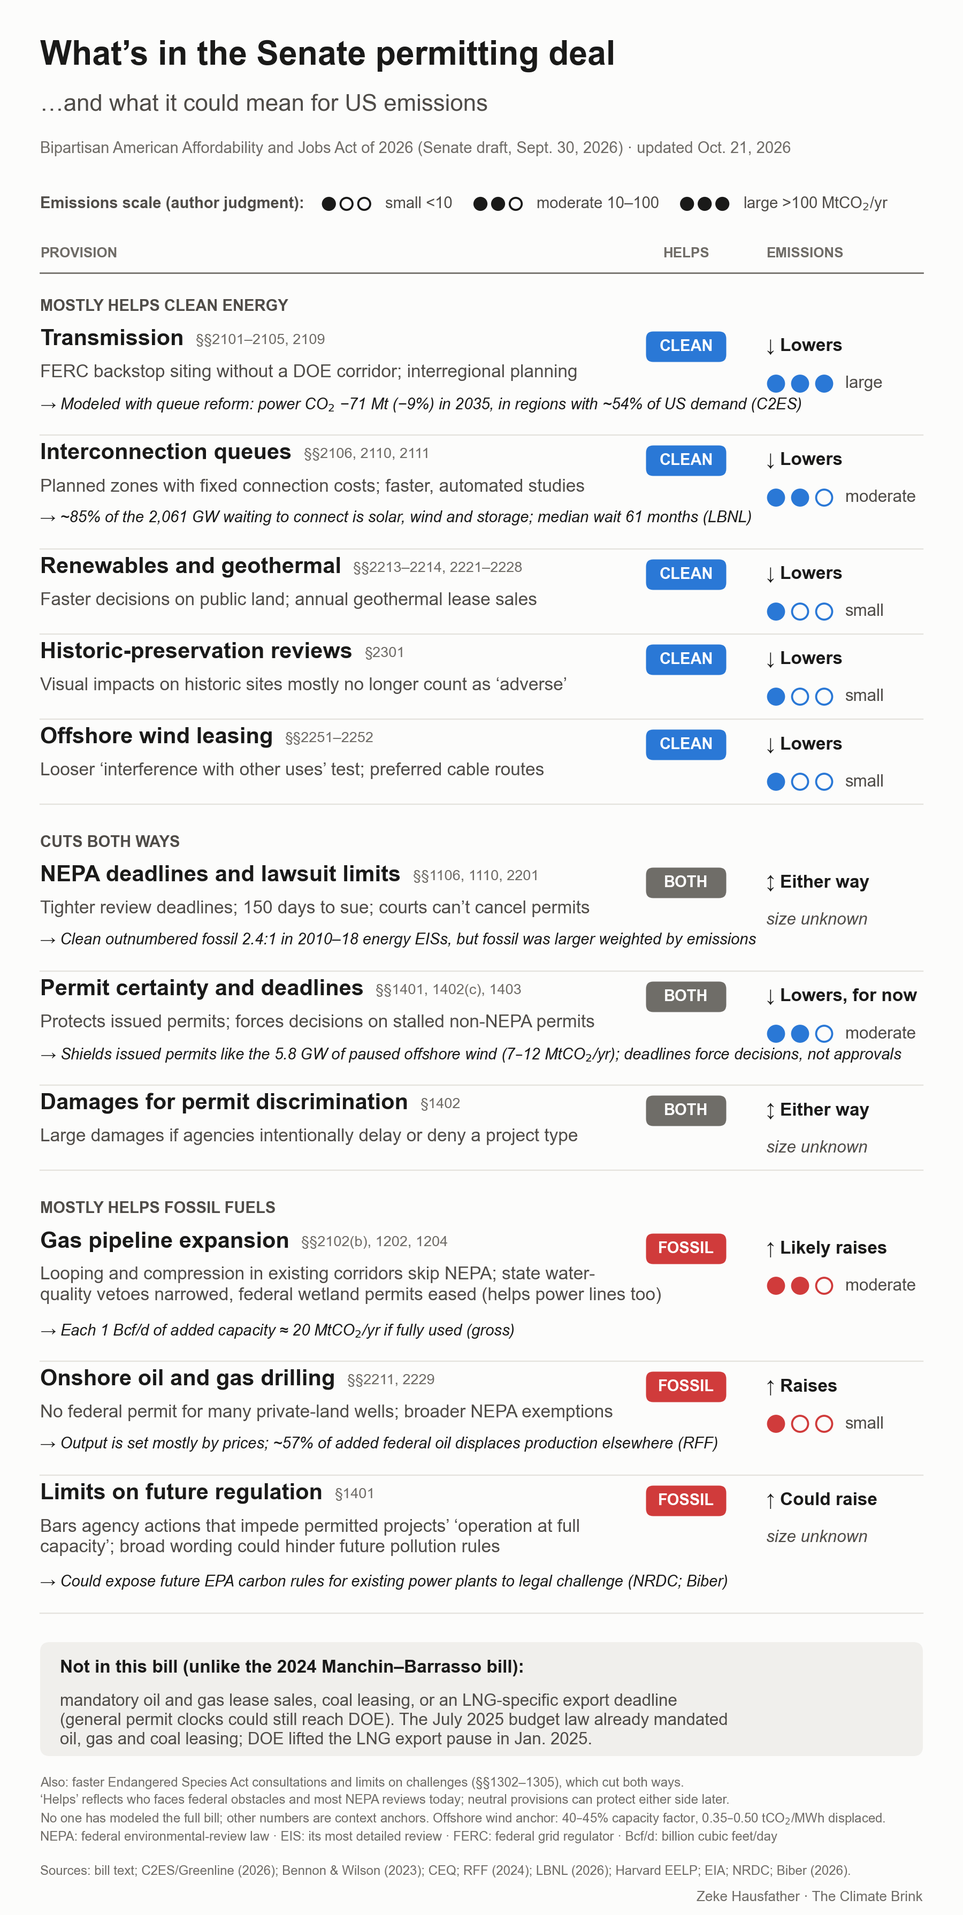
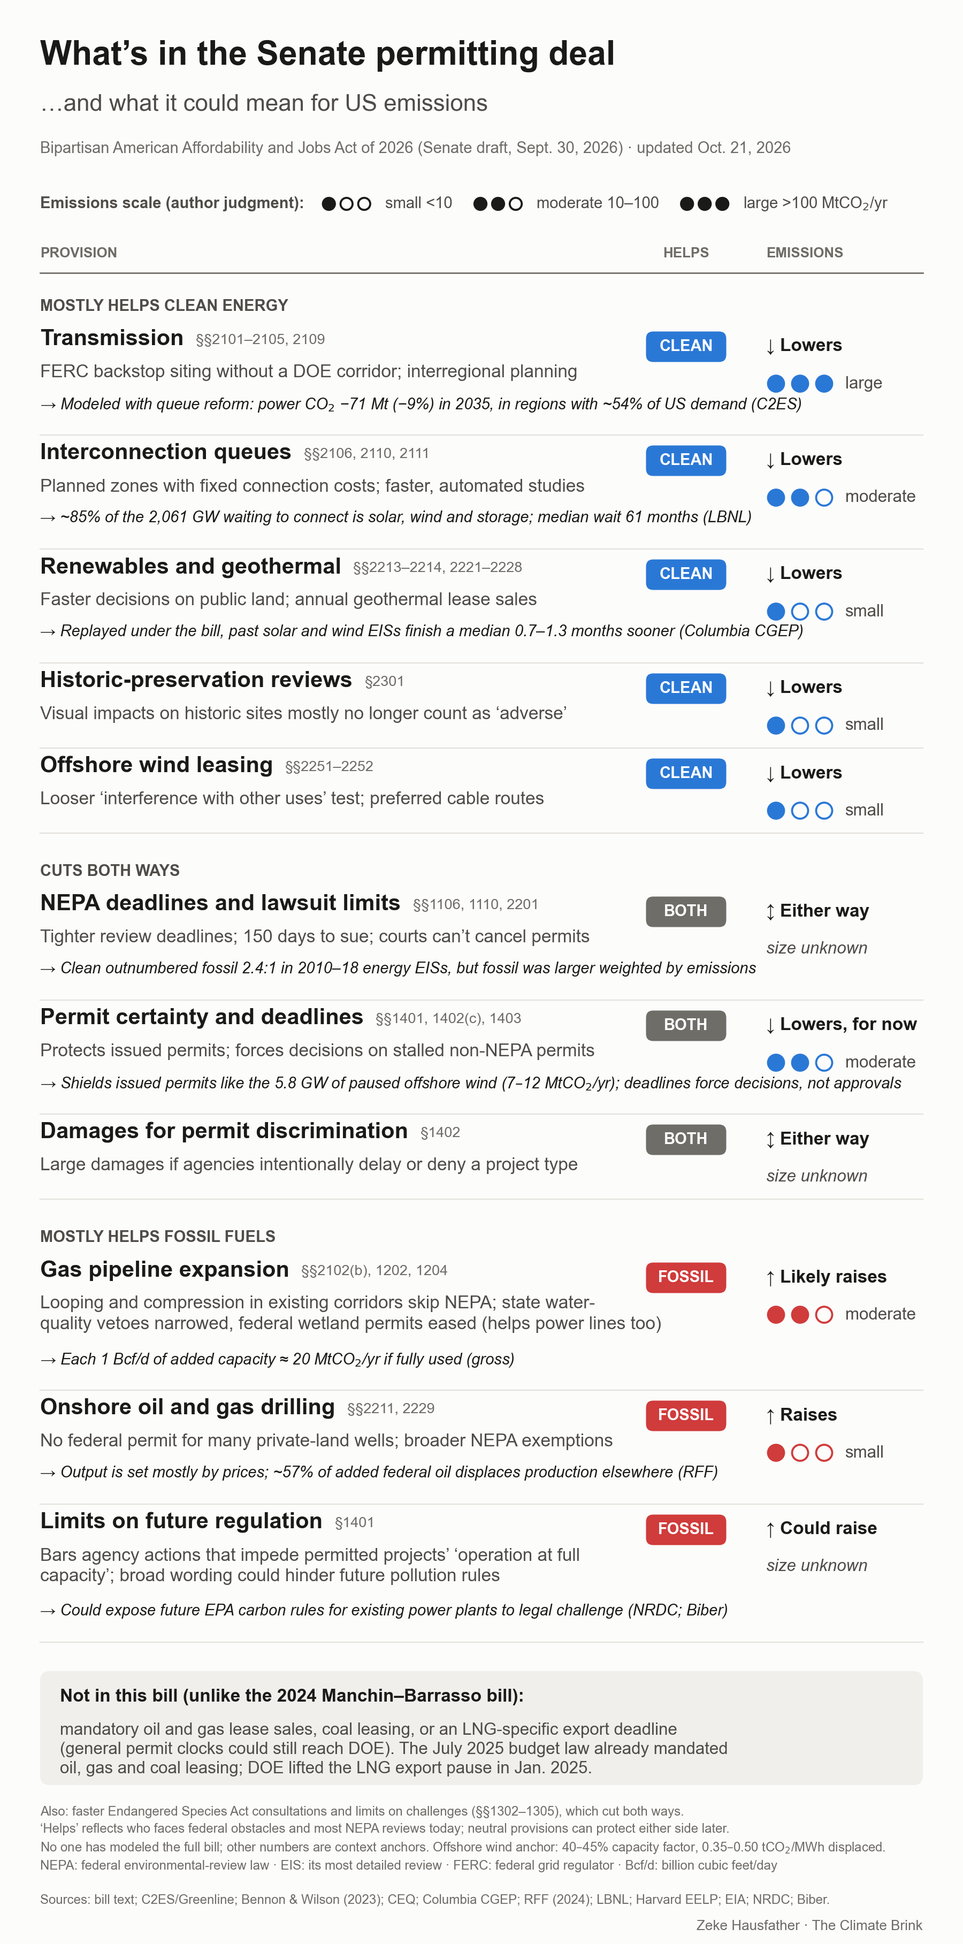
Renewables row: add Columbia CGEP timeline anchor
Past solar and wind EISs replayed under the bill's caps reach their federal
decision a median 0.7-1.3 months sooner (CGEP, Oct 21 2026; recomputed
from their replay table). Sources line shortened to fit the margin.

diff --git a/index.html b/index.html
@@ -106,7 +106,7 @@ footer { font-size: .9rem; color: var(--ink3); }
 <tr class="grp"><th colspan="4" scope="colgroup">Mostly helps clean energy</th></tr>
 <tr><td class="prov"><strong>Transmission</strong><span class="sec">§§2101–2105, 2109</span></td><td class="what"><p>FERC backstop siting without a DOE corridor; interregional planning</p><p class="anchor">→ Modeled with queue reform: power CO₂ −71 Mt (−9%) in 2035, in regions with ~54% of US demand (C2ES) <a href="https://www.greenlineinsights.com/interconnection-and-transmission-reform" target="_blank" rel="noopener">source</a></p></td><td class="helps"><span class="chip chip-clean">CLEAN</span></td><td><div class="em em-down"><strong>↓ Lowers</strong><span class="scale"><span class="dot on"></span><span class="dot on"></span><span class="dot on"></span><span>large</span></span></div></td></tr>
 <tr><td class="prov"><strong>Interconnection queues</strong><span class="sec">§§2106, 2110, 2111</span></td><td class="what"><p>Planned zones with fixed connection costs; faster, automated studies</p><p class="anchor">→ ~85% of the 2,061 GW waiting to connect is solar, wind and storage; median wait 61 months (LBNL) <a href="https://emp.lbl.gov/publications/queued-2026-edition-characteristics" target="_blank" rel="noopener">source</a></p></td><td class="helps"><span class="chip chip-clean">CLEAN</span></td><td><div class="em em-down"><strong>↓ Lowers</strong><span class="scale"><span class="dot on"></span><span class="dot on"></span><span class="dot"></span><span>moderate</span></span></div></td></tr>
-<tr><td class="prov"><strong>Renewables and geothermal</strong><span class="sec">§§2213–2214, 2221–2228</span></td><td class="what"><p>Faster decisions on public land; annual geothermal lease sales</p></td><td class="helps"><span class="chip chip-clean">CLEAN</span></td><td><div class="em em-down"><strong>↓ Lowers</strong><span class="scale"><span class="dot on"></span><span class="dot"></span><span class="dot"></span><span>small</span></span></div></td></tr>
+<tr><td class="prov"><strong>Renewables and geothermal</strong><span class="sec">§§2213–2214, 2221–2228</span></td><td class="what"><p>Faster decisions on public land; annual geothermal lease sales</p><p class="anchor">→ Replayed under the bill, past solar and wind EISs finish a median 0.7–1.3 months sooner (Columbia CGEP) <a href="https://www.energypolicy.columbia.edu/how-the-senate-permitting-reform-bill-could-impact-energy-project-timelines/" target="_blank" rel="noopener">source</a></p></td><td class="helps"><span class="chip chip-clean">CLEAN</span></td><td><div class="em em-down"><strong>↓ Lowers</strong><span class="scale"><span class="dot on"></span><span class="dot"></span><span class="dot"></span><span>small</span></span></div></td></tr>
 <tr><td class="prov"><strong>Historic-preservation reviews</strong><span class="sec">§2301</span></td><td class="what"><p>Visual impacts on historic sites mostly no longer count as ‘adverse’</p></td><td class="helps"><span class="chip chip-clean">CLEAN</span></td><td><div class="em em-down"><strong>↓ Lowers</strong><span class="scale"><span class="dot on"></span><span class="dot"></span><span class="dot"></span><span>small</span></span></div></td></tr>
 <tr><td class="prov"><strong>Offshore wind leasing</strong><span class="sec">§§2251–2252</span></td><td class="what"><p>Looser ‘interference with other uses’ test; preferred cable routes</p></td><td class="helps"><span class="chip chip-clean">CLEAN</span></td><td><div class="em em-down"><strong>↓ Lowers</strong><span class="scale"><span class="dot on"></span><span class="dot"></span><span class="dot"></span><span>small</span></span></div></td></tr>
 <tr class="grp"><th colspan="4" scope="colgroup">Cuts both ways</th></tr>
@@ -134,12 +134,12 @@ footer { font-size: .9rem; color: var(--ink3); }
 
   <section class="fig">
     <h2>The graphic</h2>
-    <img src="permitting_infographic_social.png" width="1800" height="3321" loading="lazy" alt="Scorecard graphic of the Senate permitting deal: provisions grouped as mostly helping clean energy, cutting both ways, or mostly helping fossil fuels, each with its likely emissions direction and scale, matching the table above.">
+    <img src="permitting_infographic_social.png" width="1800" height="3375" loading="lazy" alt="Scorecard graphic of the Senate permitting deal: provisions grouped as mostly helping clean energy, cutting both ways, or mostly helping fossil fuels, each with its likely emissions direction and scale, matching the table above.">
   </section>
 
   <section>
     <h2>Sources</h2>
-    <ul><li><a href="https://www.energy.senate.gov/wp-content/uploads/2026/09/Bipartisan-American-Affordability-and-Jobs-Act.pdf" target="_blank" rel="noopener">Bill text (Senate draft, Sept. 30, 2026)</a></li><li><a href="https://www.greenlineinsights.com/interconnection-and-transmission-reform" target="_blank" rel="noopener">C2ES &amp; Greenline Insights, grid impacts of interconnection queue reform and interregional transmission (2026)</a></li><li><a href="https://www.elr.info/sites/default/files/files-general/53.10836.pdf" target="_blank" rel="noopener">Bennon &amp; Wilson, NEPA litigation over large energy and transport projects (ELR, 2023)</a></li><li><a href="https://ceq.doe.gov/nepa-practice/eis-timelines.html" target="_blank" rel="noopener">CEQ, Environmental Impact Statement Timelines database (2010-2017 and 2010-2024 editions)</a></li><li><a href="https://github.com/hausfath/permitting-scorecard-2026/tree/main/bw_recount" target="_blank" rel="noopener">Author&#x27;s preliminary emissions-weighted recount of energy EISs (code and data)</a></li><li><a href="https://emp.lbl.gov/publications/queued-2026-edition-characteristics" target="_blank" rel="noopener">LBNL, Queued Up: 2026 edition (interconnection queues)</a></li><li><a href="https://www.rff.org/publications/issue-briefs/federal-permitting-reform-expand-oil-and-gas-leasing-carbon-emissions/" target="_blank" rel="noopener">Resources for the Future, federal leasing and global emissions (2024)</a></li><li><a href="https://eelp.law.harvard.edu/tracker/federal-offshore-wind-deployment" target="_blank" rel="noopener">Harvard EELP, federal offshore wind deployment tracker</a></li><li><a href="https://www.utilitydive.com/news/court-trump-wind-solar-permitting/818152/" target="_blank" rel="noopener">Utility Dive on Renew Northeast v. DOI (Apr. 2026)</a></li><li><a href="https://www.nrdc.org/media/nrdc-assessment-baaja-2026-permitting-transmission-bill" target="_blank" rel="noopener">NRDC, Assessment of BAAJA (Oct. 19, 2026)</a></li><li><a href="https://legal-planet.org/2026/10/16/a-major-problem-with-permit-certainty/" target="_blank" rel="noopener">Eric Biber, A major problem with &quot;permit certainty&quot; (Legal Planet, Oct. 16, 2026)</a></li></ul>
+    <ul><li><a href="https://www.energy.senate.gov/wp-content/uploads/2026/09/Bipartisan-American-Affordability-and-Jobs-Act.pdf" target="_blank" rel="noopener">Bill text (Senate draft, Sept. 30, 2026)</a></li><li><a href="https://www.greenlineinsights.com/interconnection-and-transmission-reform" target="_blank" rel="noopener">C2ES &amp; Greenline Insights, grid impacts of interconnection queue reform and interregional transmission (2026)</a></li><li><a href="https://www.elr.info/sites/default/files/files-general/53.10836.pdf" target="_blank" rel="noopener">Bennon &amp; Wilson, NEPA litigation over large energy and transport projects (ELR, 2023)</a></li><li><a href="https://ceq.doe.gov/nepa-practice/eis-timelines.html" target="_blank" rel="noopener">CEQ, Environmental Impact Statement Timelines database (2010-2017 and 2010-2024 editions)</a></li><li><a href="https://www.energypolicy.columbia.edu/how-the-senate-permitting-reform-bill-could-impact-energy-project-timelines/" target="_blank" rel="noopener">Columbia CGEP, How the Senate permitting reform bill could impact energy project timelines (Oct. 21, 2026)</a></li><li><a href="https://github.com/hausfath/permitting-scorecard-2026/tree/main/bw_recount" target="_blank" rel="noopener">Author&#x27;s preliminary emissions-weighted recount of energy EISs (code and data)</a></li><li><a href="https://emp.lbl.gov/publications/queued-2026-edition-characteristics" target="_blank" rel="noopener">LBNL, Queued Up: 2026 edition (interconnection queues)</a></li><li><a href="https://www.rff.org/publications/issue-briefs/federal-permitting-reform-expand-oil-and-gas-leasing-carbon-emissions/" target="_blank" rel="noopener">Resources for the Future, federal leasing and global emissions (2024)</a></li><li><a href="https://eelp.law.harvard.edu/tracker/federal-offshore-wind-deployment" target="_blank" rel="noopener">Harvard EELP, federal offshore wind deployment tracker</a></li><li><a href="https://www.utilitydive.com/news/court-trump-wind-solar-permitting/818152/" target="_blank" rel="noopener">Utility Dive on Renew Northeast v. DOI (Apr. 2026)</a></li><li><a href="https://www.nrdc.org/media/nrdc-assessment-baaja-2026-permitting-transmission-bill" target="_blank" rel="noopener">NRDC, Assessment of BAAJA (Oct. 19, 2026)</a></li><li><a href="https://legal-planet.org/2026/10/16/a-major-problem-with-permit-certainty/" target="_blank" rel="noopener">Eric Biber, A major problem with &quot;permit certainty&quot; (Legal Planet, Oct. 16, 2026)</a></li></ul>
   </section>
 
   <footer>Ratings are qualitative and reflect the Senate draft as released; they may change with the manager's amendment.</footer>

diff --git a/infographic.py b/infographic.py
@@ -65,7 +65,11 @@ def anchors():
     # C2ES / Greenline Insights (memo 9/29/26): GenX, queue reform + interregional
     # transmission vs BAU (no new interregional lines), PJM+MISO+SPP+non-CAISO West, 2035.
     c2es = {"mt": 71, "pct": 9, "year": 2035, "demand_share": 0.54}
-    return {"c2es": c2es, "q_total": q_total, "q_clean_share": q_clean_share, "q_gas_share": q_gas_share,
+    # Columbia CGEP timeline tool (Oct 21 2026), real-project replays: median months sooner
+    # to the federal decision under the bill's caps (25 solar EISs, 10 wind EISs, 2010-2024).
+    # Recomputed from their real_project_replays table: matches (0.7, 1.3).
+    cgep = {"solar": 0.7, "wind": 1.3, "n_solar": 25, "n_wind": 10}
+    return {"c2es": c2es, "cgep": cgep, "q_total": q_total, "q_clean_share": q_clean_share, "q_gas_share": q_gas_share,
             "q_months": q_median_months, "ws_gw": ws_gw, "ws_mt": ws_mt, "ow_gw": ow_gw, "ow_mt": ow_mt,
             "pipe_mt": mt_per_bcfd}
 
@@ -91,7 +95,9 @@ GROUPS = [
                     f"solar, wind and storage; median wait {A['q_months']} months (LBNL)"),
         dict(name="Renewables and geothermal", sec="§§2213–2214, 2221–2228",
              what="Faster decisions on public land; annual geothermal lease sales",
-             lean="clean", dir="down", dlab="Lowers", scale=1, anchor=None),
+             lean="clean", dir="down", dlab="Lowers", scale=1,
+             anchor=f"Replayed under the bill, past solar and wind EISs finish a median "
+                    f"{A['cgep']['solar']}–{A['cgep']['wind']} months sooner (Columbia CGEP)"),
         dict(name="Historic-preservation reviews", sec="§2301",
              what="Visual impacts on historic sites mostly no longer count as ‘adverse’",
              lean="clean", dir="down", dlab="Lowers", scale=1, anchor=None),
@@ -267,8 +273,8 @@ def render(show_box, out):
     ]
     ax.text(L, 1.72, "\n".join(foot), fontsize=11.5, color=INK3, va="top",
             linespacing=1.5)
-    ax.text(L, 0.62, "Sources: bill text; C2ES/Greenline (2026); Bennon & Wilson (2023); CEQ; RFF (2024); LBNL (2026); "
-            "Harvard EELP; EIA; NRDC; Biber (2026).",
+    ax.text(L, 0.62, "Sources: bill text; C2ES/Greenline; Bennon & Wilson (2023); CEQ; Columbia CGEP; RFF (2024); LBNL; "
+            "Harvard EELP; EIA; NRDC; Biber.",
             fontsize=11.5, color=INK3, va="top")
     ax.text(R, 0.3, "Zeke Hausfather · The Climate Brink", fontsize=12.5,
             color=INK3, va="top", ha="right")

diff --git a/build_share.py b/build_share.py
@@ -19,6 +19,9 @@ SCALE_MEANING = {3: "large (>100 MtCO2/yr)", 2: "moderate (10-100 MtCO2/yr)",
 ANCHOR_SOURCE = {
     "Transmission": ("C2ES & Greenline Insights (2026), GenX model of queue reform plus interregional transmission",
                      "https://www.greenlineinsights.com/interconnection-and-transmission-reform"),
+    "Renewables and geothermal": (
+        "Columbia CGEP, permitting-timeline tool, real-project replays (Oct. 21, 2026)",
+        "https://www.energypolicy.columbia.edu/how-the-senate-permitting-reform-bill-could-impact-energy-project-timelines/"),
     "Limits on future regulation": (
         "NRDC assessment (Oct. 19, 2026); see also Biber, Legal Planet (Oct. 16, 2026)",
         "https://www.nrdc.org/media/nrdc-assessment-baaja-2026-permitting-transmission-bill"),
@@ -70,6 +73,8 @@ SOURCES = [
      "https://www.elr.info/sites/default/files/files-general/53.10836.pdf"),
     ("CEQ, Environmental Impact Statement Timelines database (2010-2017 and 2010-2024 editions)",
      "https://ceq.doe.gov/nepa-practice/eis-timelines.html"),
+    ("Columbia CGEP, How the Senate permitting reform bill could impact energy project timelines (Oct. 21, 2026)",
+     "https://www.energypolicy.columbia.edu/how-the-senate-permitting-reform-bill-could-impact-energy-project-timelines/"),
     ("Author's preliminary emissions-weighted recount of energy EISs (code and data)",
      "https://github.com/hausfath/permitting-scorecard-2026/tree/main/bw_recount"),
     ("LBNL, Queued Up: 2026 edition (interconnection queues)", "https://emp.lbl.gov/publications/queued-2026-edition-characteristics"),

diff --git a/METHODS.md b/METHODS.md
@@ -20,7 +20,7 @@ Every provision description was checked against the bill text. An independent ad
 | NEPA deadlines/litigation (§§1106, 1110, 2201) | Both (either way; was 'lowers, on net' until 2026-10-21) | Unknown (was Moderate) | The provisions are facially neutral, but clean energy dominates the EIS pipeline. Bennon & Wilson (2023, ELR Table 1) cover 171 energy EIS projects from 2010–18. Of these, 97 are clean (solar 22, wind 13, transmission 42, hydro 14, geothermal 3, nuclear 2, pumped storage 1), 40 are fossil (pipeline 18, liquefaction 7, regasification 1, gas plant 2, coal plant 2, coal mine 4, gas mine 6), and 34 are other (programmatic 15, waste 8, bio 3, CCS 2, other mine 4, other energy 2). Clean is 57% of all energy EISs and fossil 23%, a ratio of 2.4:1. Among litigated projects, clean is 34 of about 58 (~59%) and fossil 17 (~29%), about 2:1. Per-project litigation rates are clean 35% and fossil 42%. An earlier version of the graphic reported ~70% and 2/3; those shares used the clean+fossil subset only and were corrected. IFP (2024) reports 62% clean vs 16% fossil among energy EISs. Counterpoints behind the BOTH label: (1) §2201's 150-day limit covers oil and gas lease sales (§2201(a)(1)(B)(i)); (2) §1110's no-vacatur remedy covers EA-level reviews, where BLM oil and gas work sits (5 EISs vs 381 EAs vs 77 CEs), and B&W's EIS-only sample can't see this tier; (3) vacatur stopped several fossil projects (Lease Sale 257, Willow, the Dakota Access easement, Sabal Trail). The author's colleagues argued for the lowers-emissions lean, citing land intensity, visibility to opposition, location of shale on private land, and renewables' greater potential for growth. **Support for the size (added 2026-10-21): weak.** The Bennon & Wilson counts measure *exposure* (who goes through EISs and gets sued), not emissions. One fossil EIS (an LNG terminal, a long pipeline, Willow) can carry far more gross emissions than one solar or wind EIS, so an emissions-weighted mix could differ a lot from the 2.4:1 project ratio. **Changed 2026-10-21 after an emissions-weighted recount** (`bw_recount/SUMMARY.md`, preliminary, not externally reviewed). The recount covers all 237 energy EISs in CEQ's 2010–mid-2018 database. Weighted by emissions, fossil exceeds clean in the primary cell (US, net, transmission included) and in every other cell. It also holds on B&W's own counts, under litigation-rate weighting, built-only, and cancelled or stalled excluding nuclear. Drivers: gas pipelines, Wright Area coal leases, and OCS programs on the fossil side; 12 nuclear COLs (mostly unbuilt) on the clean side. The US sign depends on the pipeline displacement factor: ICF's value flips it, and EIA's leaves fossil larger with a third of the margin. The sample predates offshore wind COPs and today's large interregional lines, so the row is rated 'either way', not 'raises'. An extension to CEQ's 2010–2024 workbook is planned. The 'moderate' size is a prior, not an estimate; no published analysis sizes this provision. **Overlap:** 42 of the 97 clean EISs are transmission lines, so much of this row's clean-side benefit runs through lines the Transmission row already rates. The rows should not be added. Pidot (Legal Planet, Oct 16 2026) argues the no-vacatur remedy (§1110) combined with §1401 effectively ends NEPA judicial review, which widens the effect on both sides without settling the net. |
 | Offshore wind (§§2251–2252) | Clean | Small | Looser OCSLA 8(p)(4)(I) standard, preferred cable routes, and DOI as lead agency. Economics, not permits, are the main constraint after the IRA. |
 | NHPA (§2301) | Clean | Small | Procedural; saves time and mitigation cost; §110(f) landmarks untouched. |
-| Renewables/geothermal (§§2213–2214, 2221–2228) | Clean | Small | Federal land is a small share of wind and solar siting. §2108 was removed from this row because its behind-the-meter definition includes fossil backup generators. |
+| Renewables/geothermal (§§2213–2214, 2221–2228) | Clean | Small | Federal land is a small share of wind and solar siting. **Anchor added 2026-10-21:** Columbia CGEP's timeline tool replays 25 solar and 10 wind EISs (2010–2024) under the bill's caps. The median project reaches its federal decision 0.7 (solar) and 1.3 (wind) months sooner; recomputed from their `real_project_replays` table, the values match. Geothermal is 0.0 across 27 reviews, because 16 of 25 exploration reviews already finish within the bill's 2 months under BLM categorical exclusions. CGEP's composite 'delays and challenges' cases save more (solar 35, wind 20, geothermal 29 months), but those assume a lawsuit and, for geothermal, a vacated permit. The replays cover only projects that reached an EIS and count time saved, not projects enabled. §2108 was removed from this row because its behind-the-meter definition includes fossil backup generators. |
 | Interconnection queues (§§2106, 2110, 2111) | Clean | Moderate | §2106 requires consolidated 20-year generation-transmission planning with "resource and fuel-neutral planned interconnection locations", "upfront, fixed, zonal, per-megawatt" costs, single-decision-point cluster studies, nonrefundable financial security and withdrawal penalties. FERC has 18 months for the rule, and regions file within 2 years. §2110 covers AI and automation in queue processing; §2111 requires grid data within 15 days plus an automated-study specification. The provisions are fuel-neutral, but the queue is mostly clean. LBNL Queued Up 2026 (end of 2025) shows solar 773, storage 749, wind 220 and gas 253 GW of a 2,061 GW total, so solar+wind+storage = 84.5% and gas = 12.3% (computed in `anchors()`). The median wait was 61 months for projects built in 2025. Caveats: the gas queue grew 86% in 2025 while the others shrank; gas may have higher completion rates; withdrawal penalties mostly clear speculative solar and wind, which speeds up real projects of all types; FERC Order 2023 already required cluster studies, so part of this is codification. Added at Zeke's request. It was first rated Both and moved to Clean because ~85% of queued capacity is clean, far more lopsided than the NEPA row's EIS mix (clean 57% of all energy EISs), which stays Both. Gas still benefits. |
 | Permit certainty and deadlines (§§1401–1403) | Both | Moderate | §1401 protects issued permits of any type (including pipelines and LNG) and is clean-leaning today. §§1402(c)/1403 force decisions (not approvals) on stalled non-NEPA permits. The §§1402(c)/1403 deadlines reach only permits that need no EIS or EA. Anchor: 57.2 GW of wind, solar, hybrid and offshore capacity canceled or delayed beyond 2029. This is a plaintiffs' consultant estimate (Charles River Associates) cited by the court in Renew Northeast v. DOI (PI of Apr 21 2026), via Utility Dive. At an ASSUMED 25–35% capacity factor and 0.35–0.50 t/MWh, that is 44–88 MtCO₂/yr if built. It is not all attributable to the bill, since deadlines force decisions, not approvals, and §1402 claims wait 180–280 days. **Anchor changed 2026-10-21.** The 57 GW range is what is at stake, not what the bill delivers. Most of that capacity awaits approvals, which §1401 does not protect. The graphic now shows what §1401 clearly protects: the five offshore projects paused Dec 22 2025 (5.84 GW, 7.2–11.5 MtCO₂/yr; see Anchors). The 57 GW figure moved to the page notes. A plausible attributable range is ~10–25 Mt/yr: the offshore five plus the three Atlantic projects whose permits the administration is seeking to revoke (Grist, Oct 16 2026; not sized), plus some share of stalled projects that deadlines force to approval. 'Moderate' is kept at low confidence. Points against: Littleton (ex-DOJ, via Grist) doubts it will deter the administration, and the wind/solar sidecar deal with the White House is unresolved. Points for: Heatmap (Oct 5 2026) reads §1401 as likely to have blocked the Dec 2025 stop-work orders, and with OBBBA's credit deadlines a delay can become a cancellation. The long-run, fossil-leaning side of §1401 is rated separately in 'Limits on future regulation'. |
 | Disparate-treatment damages (§1402) | Both | Unknown | Deters future pauses (e.g., LNG); the magnitude depends on future administrations. Reviewed 2026-10-21 and unchanged: every analysis found treats its size as unquantifiable. NRDC and Westwise argue the five-year comparison period, dominated by Trump-era practice, would protect fossil projects after 2029. The same mechanism protects wind and solar against the current administration while its baseline still includes Biden-era years, so 'either way' holds. Biber (Legal Planet, Oct 14 2026) reads it as a rate freeze rather than a cross-type comparison. The comparison-period reading has not been checked against the bill text. |
